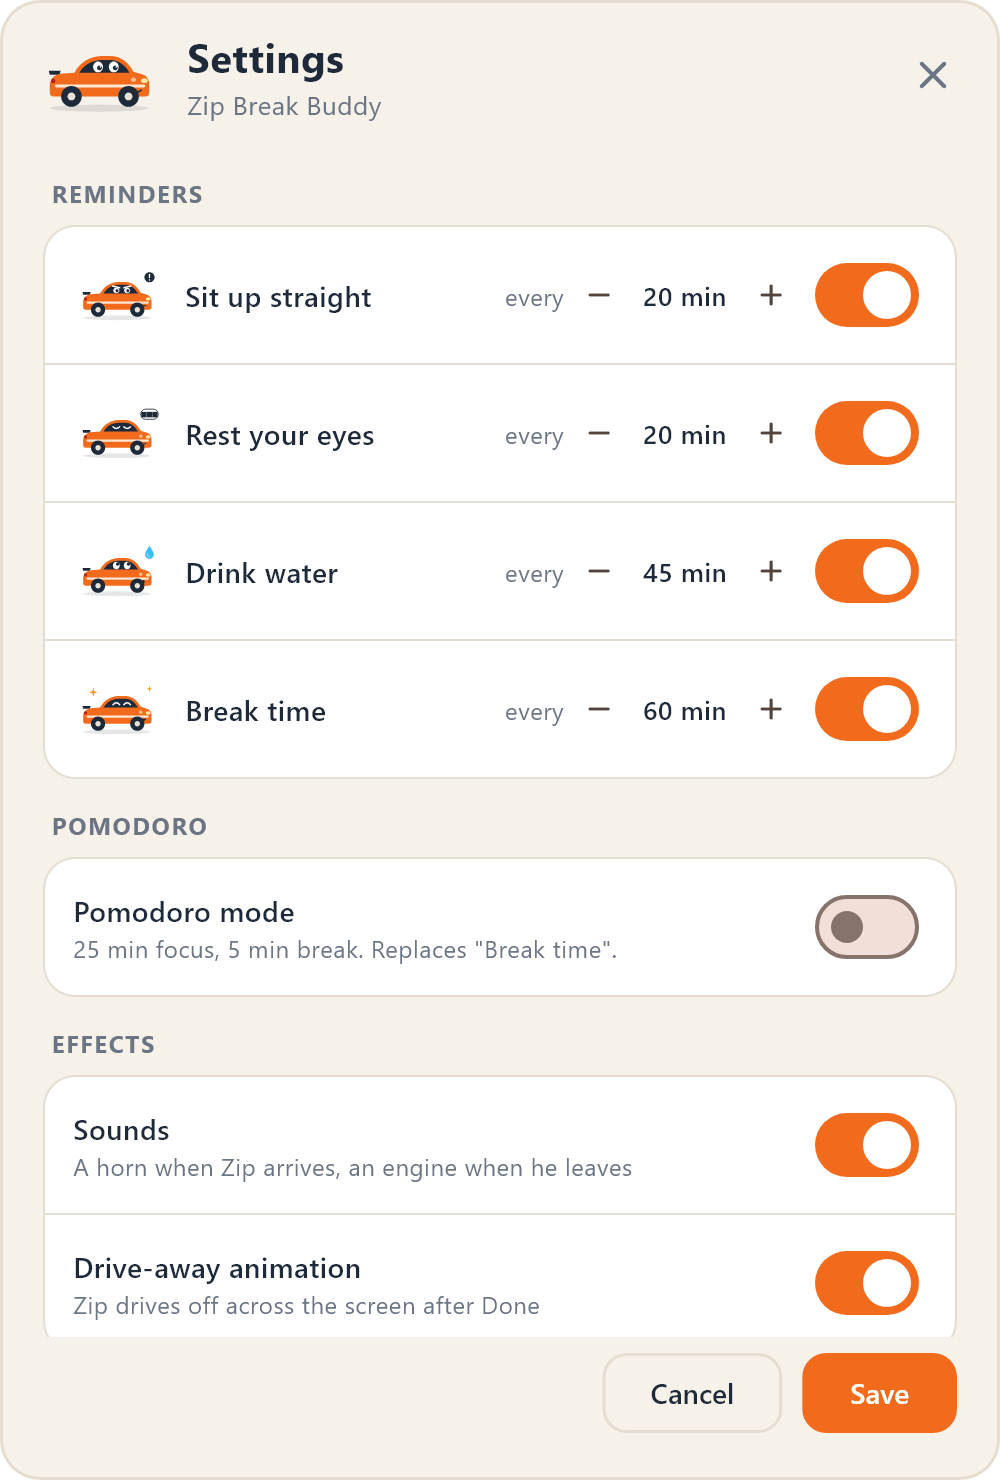
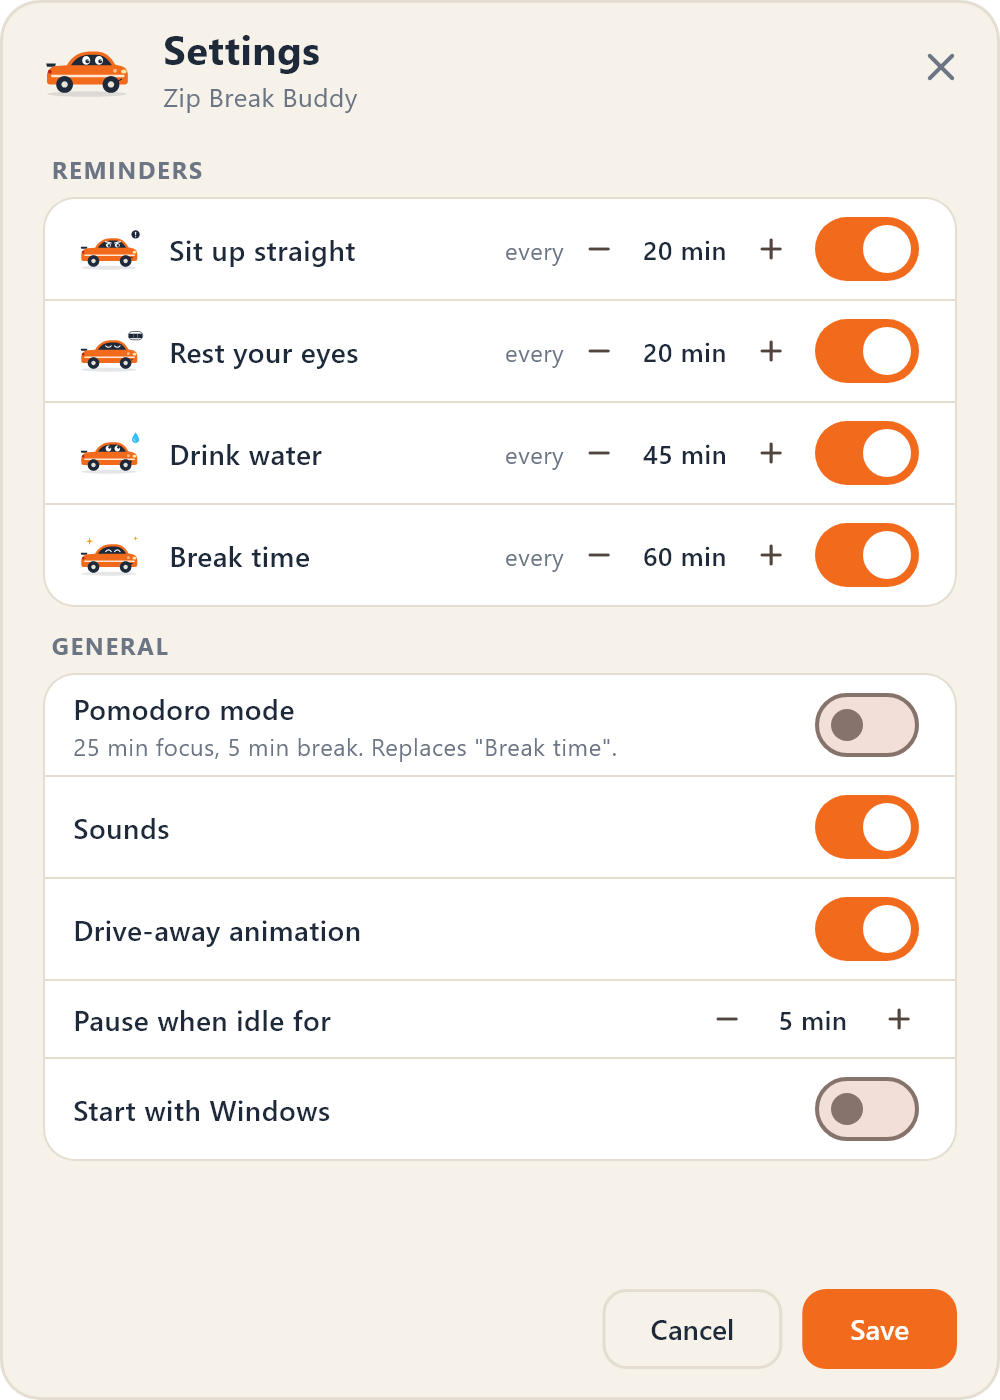
Make the Settings window fit without scrolling
Merge Pomodoro, Sounds and Drive-away into one General card, drop their
subtitles, shrink the tap targets and row padding, and make the window
500x700 (capped to the screen's work area).

diff --git a/lib/ui/settings_view.dart b/lib/ui/settings_view.dart
@@ -38,6 +38,17 @@ class _SettingsViewState extends State<SettingsView> {
 
   @override
   Widget build(BuildContext context) {
+    // Compact switches (no 48px tap target) so every row is slimmer and the
+    // whole window fits without scrolling.
+    return Theme(
+      data: Theme.of(
+        context,
+      ).copyWith(materialTapTargetSize: MaterialTapTargetSize.shrinkWrap),
+      child: _window(),
+    );
+  }
+
+  Widget _window() {
     return Container(
       decoration: BoxDecoration(
         color: ZipColors.background,
@@ -57,7 +68,7 @@ class _SettingsViewState extends State<SettingsView> {
                     for (final type in ReminderType.regular) _reminderRow(type),
                   ],
                 ),
-                const _SectionTitle('Pomodoro'),
+                const _SectionTitle('General'),
                 _Card(
                   children: [
                     _SwitchRow(
@@ -69,34 +80,20 @@ class _SettingsViewState extends State<SettingsView> {
                       onChanged: (v) =>
                           setState(() => _s = _s.copyWith(pomodoro: v)),
                     ),
-                  ],
-                ),
-                const _SectionTitle('Effects'),
-                _Card(
-                  children: [
                     _SwitchRow(
                       title: 'Sounds',
-                      subtitle:
-                          'A horn when Zip arrives, an engine when he leaves',
                       value: _s.soundsEnabled,
                       onChanged: (v) =>
                           setState(() => _s = _s.copyWith(soundsEnabled: v)),
                     ),
                     _SwitchRow(
                       title: 'Drive-away animation',
-                      subtitle: 'Zip drives off across the screen after Done',
                       value: _s.driveAwayEnabled,
                       onChanged: (v) =>
                           setState(() => _s = _s.copyWith(driveAwayEnabled: v)),
                     ),
-                  ],
-                ),
-                const _SectionTitle('General'),
-                _Card(
-                  children: [
                     _Row(
                       title: 'Pause when idle for',
-                      subtitle: 'No keyboard or mouse input',
                       trailing: _Stepper(
                         value: _s.idleMinutes,
                         min: AppSettings.minIdle,
@@ -125,10 +122,10 @@ class _SettingsViewState extends State<SettingsView> {
 
   Widget _header() => DragToMoveArea(
     child: Padding(
-      padding: const EdgeInsets.fromLTRB(16, 12, 8, 8),
+      padding: const EdgeInsets.fromLTRB(16, 8, 8, 4),
       child: Row(
         children: [
-          SvgPicture.asset(ZipPose.happy.asset, width: 64),
+          SvgPicture.asset(ZipPose.happy.asset, width: 52),
           const SizedBox(width: 12),
           const Expanded(
             child: Column(
@@ -156,7 +153,7 @@ class _SettingsViewState extends State<SettingsView> {
   );
 
   Widget _footer() => Padding(
-    padding: const EdgeInsets.fromLTRB(20, 4, 20, 18),
+    padding: const EdgeInsets.fromLTRB(20, 4, 20, 14),
     child: Row(
       mainAxisAlignment: MainAxisAlignment.end,
       children: [
@@ -177,7 +174,7 @@ class _SettingsViewState extends State<SettingsView> {
     return _Row(
       leading: Opacity(
         opacity: active ? 1 : 0.4,
-        child: SvgPicture.asset(_icons[type]!.asset, width: 44),
+        child: SvgPicture.asset(_icons[type]!.asset, width: 36),
       ),
       title: type.label,
       subtitle: replaced ? 'Replaced by Pomodoro' : null,
@@ -215,7 +212,7 @@ class _SectionTitle extends StatelessWidget {
 
   @override
   Widget build(BuildContext context) => Padding(
-    padding: const EdgeInsets.fromLTRB(4, 14, 4, 8),
+    padding: const EdgeInsets.fromLTRB(4, 10, 4, 6),
     child: Text(
       text.toUpperCase(),
       style: const TextStyle(
@@ -259,7 +256,7 @@ class _Row extends StatelessWidget {
 
   @override
   Widget build(BuildContext context) => Padding(
-    padding: const EdgeInsets.symmetric(horizontal: 14, vertical: 10),
+    padding: const EdgeInsets.symmetric(horizontal: 14, vertical: 5),
     child: Row(
       children: [
         if (leading != null) ...[leading!, const SizedBox(width: 12)],

diff --git a/lib/app_controller.dart b/lib/app_controller.dart
@@ -1,5 +1,6 @@
 import 'dart:async';
 import 'dart:io';
+import 'dart:math' as math;
 
 import 'package:flutter/material.dart';
 import 'package:launch_at_startup/launch_at_startup.dart';
@@ -23,7 +24,9 @@ const kZipDebug = bool.fromEnvironment('ZIP_DEBUG');
 const unitLabel = kZipDebug ? 'sec' : 'min';
 
 const toastSize = Size(380, 200);
-const settingsSize = Size(500, 680);
+
+/// Tall enough for every row without scrolling (see SettingsView).
+const settingsSize = Size(500, 700);
 const _screenMargin = 16.0;
 const _ignoredTimeout = Duration(seconds: 30);
 const _infoTimeout = Duration(seconds: 4);
@@ -300,7 +303,12 @@ class AppController with TrayListener, WindowListener {
     await windowManager.hide();
     await windowManager.setAlwaysOnTop(false);
     await windowManager.setSkipTaskbar(false);
-    await windowManager.setSize(settingsSize);
+    // On a short screen, fit the work area; the list scrolls as a fallback.
+    final display = await screenRetriever.getPrimaryDisplay();
+    final workHeight = (display.visibleSize ?? display.size).height;
+    await windowManager.setSize(
+      Size(settingsSize.width, math.min(settingsSize.height, workHeight - 16)),
+    );
     await windowManager.center();
     await windowManager.show();
     await windowManager.focus();

diff --git a/test/settings_view_test.dart b/test/settings_view_test.dart
@@ -7,7 +7,7 @@ import 'package:zip_break_buddy/ui/theme.dart';
 
 void main() {
   testWidgets('toggles and steppers feed into Save', (tester) async {
-    tester.view.physicalSize = const Size(500, 680);
+    tester.view.physicalSize = const Size(500, 700);
     tester.view.devicePixelRatio = 1;
     addTearDown(tester.view.reset);
 
@@ -42,7 +42,7 @@ void main() {
   });
 
   testWidgets('Sounds and Drive-away toggles feed into Save', (tester) async {
-    tester.view.physicalSize = const Size(500, 680);
+    tester.view.physicalSize = const Size(500, 700);
     tester.view.devicePixelRatio = 1;
     addTearDown(tester.view.reset);
 

diff --git a/tool/render_readme_media_test.dart b/tool/render_readme_media_test.dart
@@ -102,9 +102,8 @@ void main() {
   }
 
   testWidgets('settings', (tester) async {
-    // Taller than the real 500x680 window: offscreen text metrics run a
-    // little taller, and the last row would otherwise scroll out of view.
-    await sized(tester, const Size(500, 740));
+    // The real 500x700 window; the settings fit with no scrolling.
+    await sized(tester, const Size(500, 700));
     addTearDown(tester.view.reset);
     await tester.pumpWidget(app(RepaintBoundary(
       key: _shotKey,
